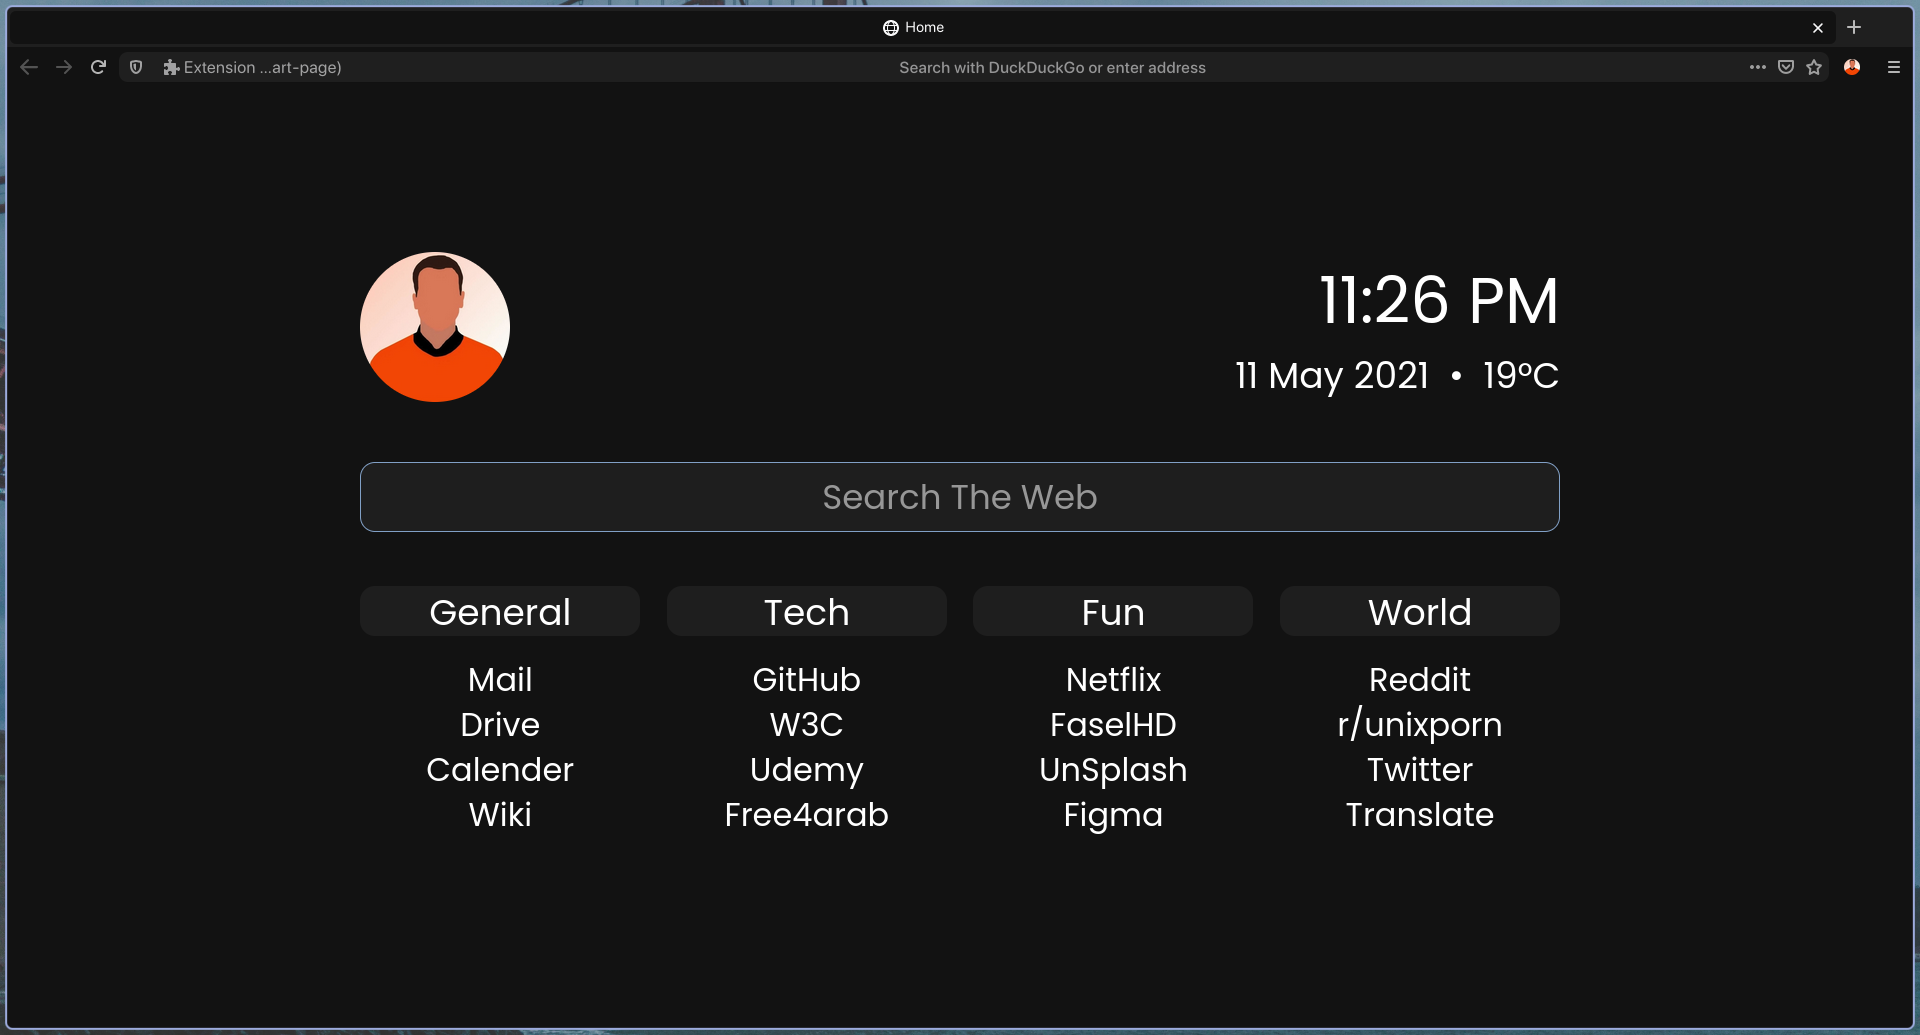
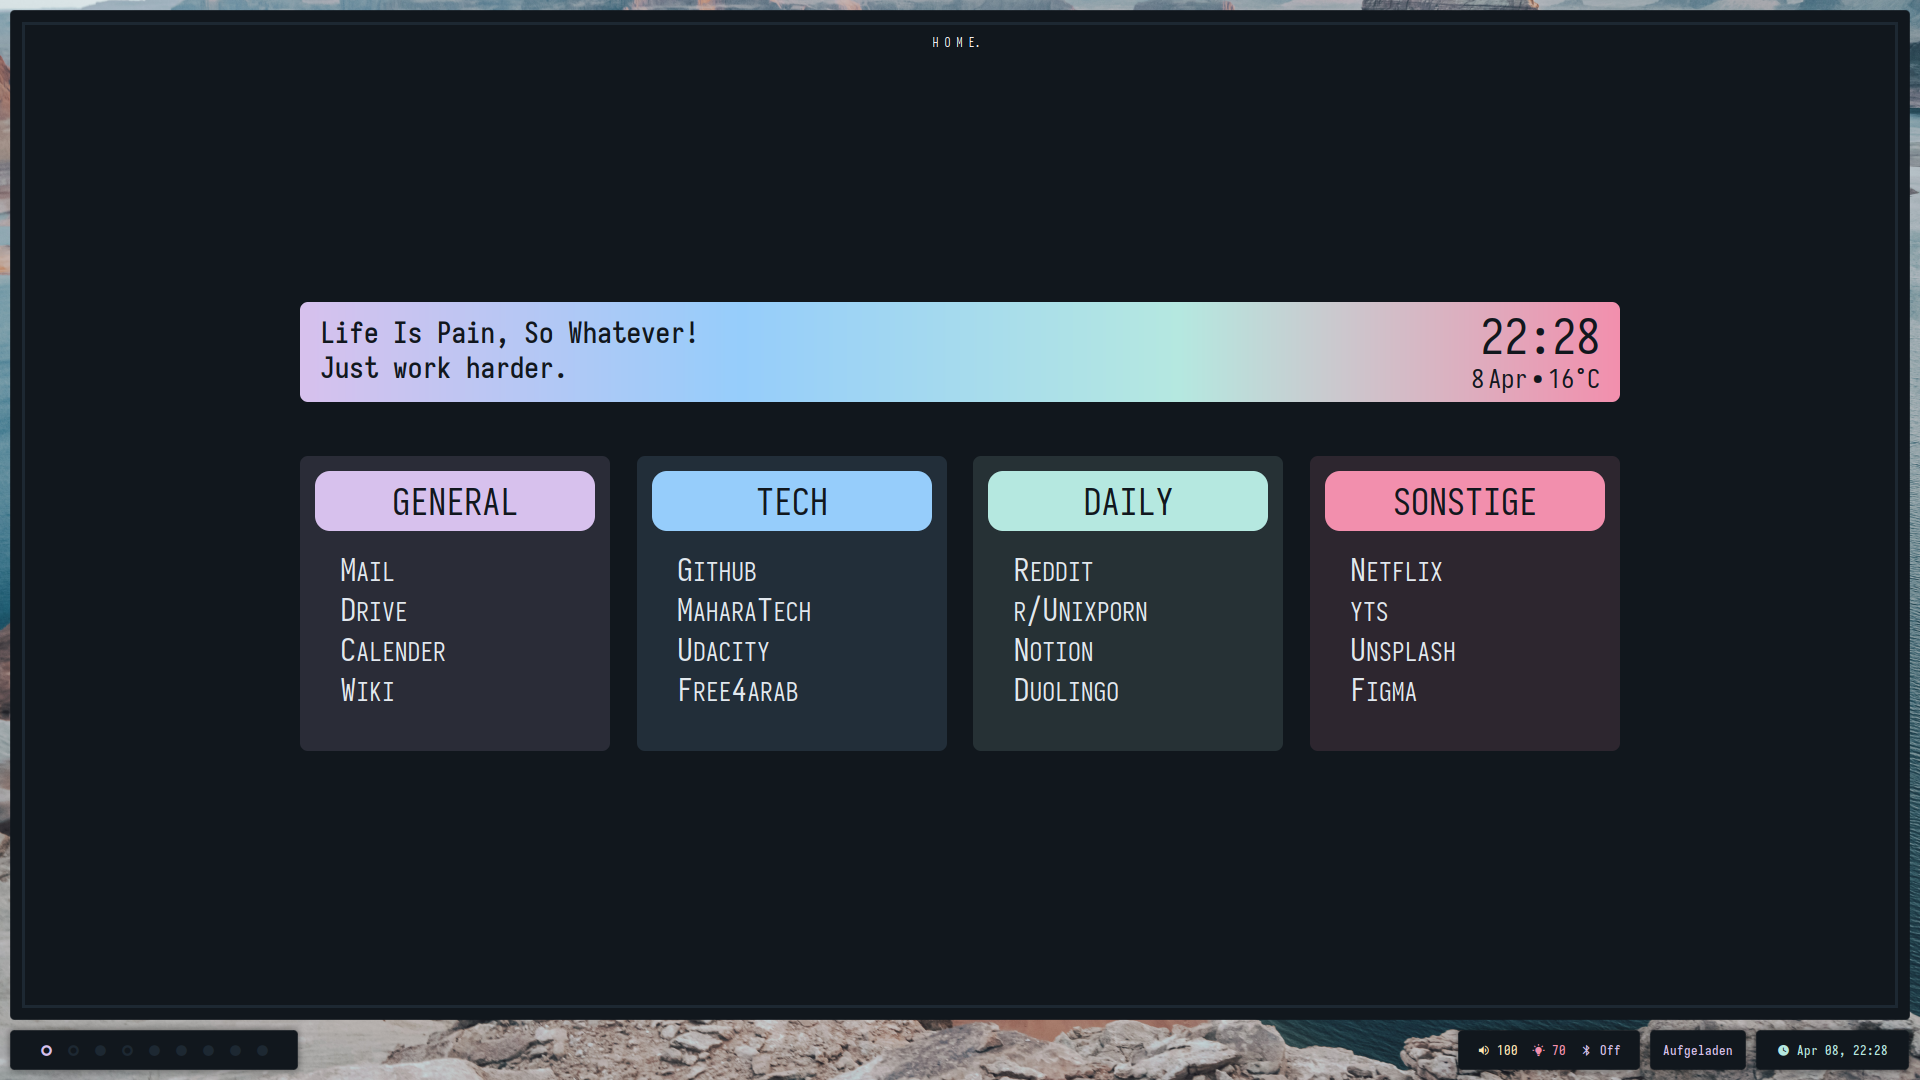
Revamp: colors ui

diff --git a/index.html b/index.html
@@ -1,75 +1,69 @@
 <!DOCTYPE html>
 <head>
-    <title>Home</title> 
+    <title>H O M E.</title>
     <meta charset="UTF-8">
-    <link rel="stylesheet" href="./css/style.css" />
+    <link rel="stylesheet" href="./style.css" />
 </head>
 <body class="body" style="margin: 0px auto;">
+
     <div class="header">
-        <img class="pic" style="border-radius: 180px;height: 150px;width: 150px;" src="images/pic.png">
+        <h1 class="helo">Life Is Pain, So Whatever!<br> Just work harder.</h1>
         <div class="info">
+            <div class="info_right">
+                <div id="day" class=""></div>
+                <div id="month" class=""></div>
+                <div>•</div>
+                <div class="temperature-value">
+                    <p class="" style="margin-top: 0px;">- °<span class="g">c</span></p>
+                </div>
+            </div>
             <div class="clock">
                 <div id="hour" class=""></div>
                 <div id="separator" class=""></div>
                 <div id="minutes" class=""></div>
             </div>
-            <div class="info_down">
-                <div id="day" class=""></div>
-                <div id="month" class=""></div>
-                <div id="year" class=""></div>
-                <div>&nbsp;•&nbsp;</div>
-                <div class="temperature-value">
-                    <p class="" style="margin-top: 0px;">- °<span class="g">c</span></p>
-                </div>
-            </div>
         </div>
     </div>
-    <form id="form" role="search">
-        <div class="middle">
-            <input class="url" type="search" id="query" name="q" placeholder="Search The Web">
-        </div>
-    </form>
+
     <div class="bookmarks">
-        <div class="menu_place">
-            <div class="menu_name">General</div>
+        <div class="menu_place" style="background-color: #D7C1ED20;color: #11171D;padding: 15px;border-radius: 8px;">
+            <div class="menu_name" style="background-color: #D7C1ED;color: #11171D;">GENERAL</div>
             <div class="list">
-                <div class="in_list"><a class="link_text" href="https://mail.google.com/mail/u/0/#inbox">Mail</a></div>
-                <div class="in_list"><a class="link_text" href="https://drive.google.com/drive/u/0/my-drive">Drive</a></div>
-                <div class="in_list"><a class="link_text" href="https://calendar.google.com/calendar/u/0/r?pli=1">Calender</a></div>
-                <div class="in_list"><a class="link_text" href="https://en.wikipedia.org/wiki/Main_Page">Wiki</a></div>
+                <a class="link_text" href="https://mail.google.com/mail/u/0/#inbox"><div class="in_list_general in_list_one">Mail</div></a>
+                <a class="link_text" href="https://drive.google.com/drive/u/0/my-drive"><div class="in_list_general in_list_one">Drive</div></a>
+                <a class="link_text" href="https://calendar.google.com/calendar/u/0/r?pli=1"><div class="in_list_general in_list_one">Calender</div></a>
+                <a class="link_text" href="https://en.wikipedia.org/wiki/Main_Page"><div class="in_list_general in_list_one">Wiki</div></a>
             </div>
         </div>
-        <div class="menu_place">
-            <div class="menu_name">Tech</div>
+        <div class="menu_place" style="background-color: #96CDFB20;color: #11171D;padding: 15px;border-radius: 8px;">
+            <div class="menu_name" style="background-color: #96CDFB;color: #11171D;">TECH</div>
             <div class="list">
-                <div class="in_list"><a class="link_text" href="https://github.com/">GitHub</a></div>
-                <div class="in_list"><a class="link_text" href="https://www.w3schools.com/">W3C</a></div>
-                <div class="in_list"><a class="link_text" href="https://www.udemy.com/">Udemy</a></div>
-                <div class="in_list"><a class="link_text" href="https://free4arab.net/">Free4arab</a></div>
+                <a class="link_text" href="https://github.com/"><div class="in_list_general in_list_two">Github</div></a>
+                <a class="link_text" href="https://maharatech.gov.eg/"><div class="in_list_general in_list_two">MaharaTech</div></a>
+                <a class="link_text" href="https://classroom.udacity.com/me"><div class="in_list_general in_list_two">Udacity</div></a>
+                <a class="link_text" href="https://free4arab.net/"><div class="in_list_general in_list_two">Free4arab</div></a>
             </div>
         </div>
-        <div class="menu_place">
-            <div class="menu_name">Fun</div>
+        <div class="menu_place" style="background-color: #B5E8E020;color: #11171D;padding: 15px;border-radius: 8px;">
+            <div class="menu_name" style="background-color: #B5E8E0;color: #11171D;">DAILY</div>
             <div class="list">
-                <div class="in_list"><a class="link_text" href="https://www.netflix.com/browse">Netflix</a></div>
-                <div class="in_list"><a class="link_text" href="https://www.faselhd.pro/home">FaselHD</a></div>
-                <div class="in_list"><a class="link_text" href="https://unsplash.com/">UnSplash</a></div>
-                <div class="in_list"><a class="link_text" href="https://www.figma.com">Figma</a></div>
+                <a class="link_text" href="https://www.reddit.com/"><div class="in_list_general in_list_three">Reddit</div></a>
+                <a class="link_text" href="https://www.reddit.com/r/unixporn/"><div class="in_list_general in_list_three">r/Unixporn</div></a>
+                <a class="link_text" href="https://www.notion.so/"><div class="in_list_general in_list_three">Notion</div></a>
+                <a class="link_text" href="https://www.duolingo.com/learn"><div class="in_list_general in_list_three">Duolingo</div></a>
             </div>
         </div>
-        <div class="menu_place">
-            <div class="menu_name">World</div>
+        <div class="menu_place" style="background-color: #F28FAD20;color: #11171D;padding: 15px;border-radius: 8px;">
+            <div class="menu_name" style="background-color: #F28FAD;color: #11171D;">SONSTIGE</div>
             <div class="list">
-                <div class="in_list"><a class="link_text" href="https://www.reddit.com/">Reddit</a></div>
-                <div class="in_list"><a class="link_text" href="https://www.reddit.com/r/unixporn/">r/unixporn</a></div>
-                <div class="in_list"><a class="link_text" href="https://twitter.com/">Twitter</a></div>
-                <div class="in_list"><a class="link_text" href="https://translate.google.com/">Translate</a></div>
+                <a class="link_text" href="https://www.netflix.com/browse"><div class="in_list_general in_list_four">Netflix</div></a>
+                <a class="link_text" href="https:/www.yts.mx/"><div class="in_list_general in_list_four">yts</div></a>
+                <a class="link_text" href="https://unsplash.com/"><div class="in_list_general in_list_four">Unsplash</div></a>
+                <a class="link_text" href="https://www.figma.com"><div class="in_list_general in_list_four">Figma</div></a>
             </div>
         </div>
     </div>
     <!--Scripts-->
     <script src="js/time.js"></script>
     <script src="js/weather.js"></script>
-    <script src="js/search.js"></script>
-    <script src="js/theme.js"></script>
 </body>

diff --git a/style.css b/style.css
@@ -1,17 +1,15 @@
 :root {
   /* Colors */
-  --darkbg: #161821;
-  --lightbg: #0f111a;
-  --fg: #ffffff;
-  --accent: #a3b8ef;
+  --darkbg: #11171D;
+  --lightbg: #161D25;
+  --fg: #E2E8EE;
 }
 @font-face {
   font-family: "Iosevka";
-  src: url(../fonts/iosevka-regular.ttf);
+  src: url(../fonts/Iosevka-regular.ttf);
 }
 * {
   font-family: Iosevka;
-  color: #var(--fg);
   text-decoration: none;
 }
 .body {
@@ -24,36 +22,48 @@
   transform: translate(-50%, -50%);
 }
 .header {
-  margin-top: 10px;
+  color: var(--darkbg);
+  height: 100px;
   margin: 0% auto;
-  width: 1200px;
+  width: 1320px;
   display: flex;
+  background-image: linear-gradient(to right, #D7C1ED, #96CDFB, #B5E8E0, #F28FAD);
+  border-radius: 8px;
+}
+.helo{
+  margin-left: 20px;
+  margin-top: 14px;
+  font-family: Iosevka;
+  font-size: 28px;
 }
 .clock {
-  color: var(--fg);
   justify-content: right;
   display: flex;
   font-family: Iosevka;
   font-weight: Medium;
-  font-size: 64px;
+  font-size: 48px;
+  margin-top: 5px;
 }
 .info {
-  text-align: right;
-  width: 100%;
-}
-.info_down {
-  color: var(--fg);
+  width: 150px;
+  margin-left: auto;
+  margin-right: 20px;
+  display: inline-flex;
+  position: relative;
   justify-content: right;
+}
+.info_right{
   display: flex;
   font-family: Iosevka;
-  font-weight: Regular;
-  font-size: 36px;
-  text-indent: 10px;
-  height: 50px;
+  font-size: 26px;
+  text-indent: 4px;
+  height: 40px;
+  bottom: 0;
+  position: absolute;
 }
 .url {
   color: var(--fg);
-  font-size: 34px;
+  font-size: 2.5em;
   text-align: center;
   border: 0px;
   background-color: var(--lightbg);
@@ -64,7 +74,6 @@
 .url:focus,
 .url:hover {
   outline: none;
-  border: #81a0c6 1px solid;
 }
 .middle {
   margin-top: 60px;
@@ -88,22 +97,39 @@
   margin-top: 20px;
 }
 .menu_name {
+  height: 50px;
+  padding-top: 10px;
   color: var(--fg);
   text-align: center;
   background-color: var(--lightbg);
   font-size: 36px;
   border-radius: 15px;
-  padding: 5px;
 }
-.in_list {
-  border-radius: 15px;
-  height: 45px;
+.in_list_general {
+  color: var(--fg);
+  border-radius: 8px;
+  height: 40px;
+  text-align: left;
+  padding-left: 25px;
 }
-.in_list:hover {
-  background-color: var(--lightbg);
-  border-radius: 15px;
-  height: 45px;
+.in_list_one:hover {
+  color: #11171D;
+  background-color: #D7C1ED;
+}
+.in_list_two:hover {
+  color: #11171D;
+  background-color: #96CDFB;
+}
+.in_list_three:hover {
+  color: #11171D;
+  background-color: #B5E8E0;
+}
+.in_list_four:hover {
+  color: #11171D;
+  background-color: #F28FAD;
 }
 .link_text {
   color: var(--fg);
+  vertical-align: middle;
+  font-variant: small-caps;
 }

diff --git a/js/weather.js b/js/weather.js
@@ -11,7 +11,7 @@ var tempUnit = "C";
 
 const KELVIN = 273.15;
 // Use your own key for the Weather, Get it here: https://openweathermap.org/
-const key = "OPENWEATHER API KEY GOES HERE";
+const key = "Your Key";
 
 // Set Position function
 setPosition();
@@ -19,8 +19,8 @@ setPosition();
 function setPosition(position) {
   // Here you can change your position
   // You can use https://www.latlong.net/ to get it! (I use San Francisco as an example)
-  let latitude = YOUR_LATITUDE;
-  let longitude = YOUR_LONGITUDE;
+  let latitude = Value;
+  let longitude = Value;
 
   getWeather(latitude, longitude);
 }

diff --git a/js/time.js b/js/time.js
@@ -16,7 +16,7 @@ function displayClock() {
   ];
 
   // Set to true to use a 12 hour date format
-  var format_12hour = true;
+  var format_12hour = false;
 
   var d = new Date();
   var mm = monthNames[d.getMonth()];

diff --git a/README.md b/README.md
@@ -1,17 +1,14 @@
-# Flat Startpage
+# Startpage
 
 Flat minimal start page made for elegant look and simple at same time.
-
-
-[Figma](https://www.figma.com/file/pwdpYP5Mgg5CUtineWNqMJ/StartPage?node-id=0%3A3) for anyone who seeks interactive view.
-
+there is more than branch every one have a unique ui.
 
 ![Flat startpage look!](/scrot.png)
 
 ## Pack as web-ext
 1.  Clone the repo
 ```
-git clone https://github.com/mahmoudk1000/flat-startpage.git
+git clone https://github.com/mahmoudk1000/startpage.git
 ```
 
 2.  You need to install web--ext tool by runing terminal<br>
@@ -44,10 +41,6 @@ function setPosition(position) {
 }
 ```
 
-## Update Pic photo
-replace pic.png from images folder with the one you want.<br>
-Note: The image could be square the rounded code from css. so i recommend to be square,
-and also it would be good if it in 150px height and 150px wight too.
 
 ## Credits
 
